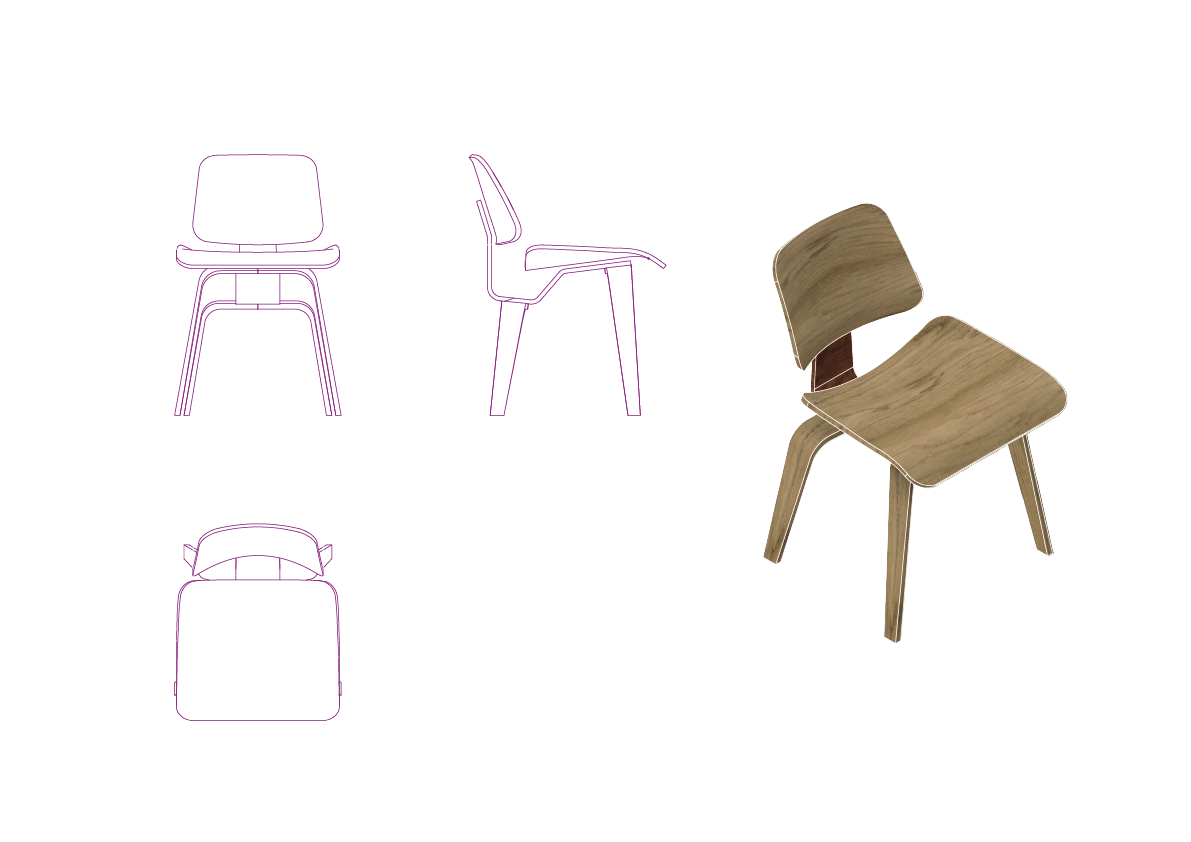
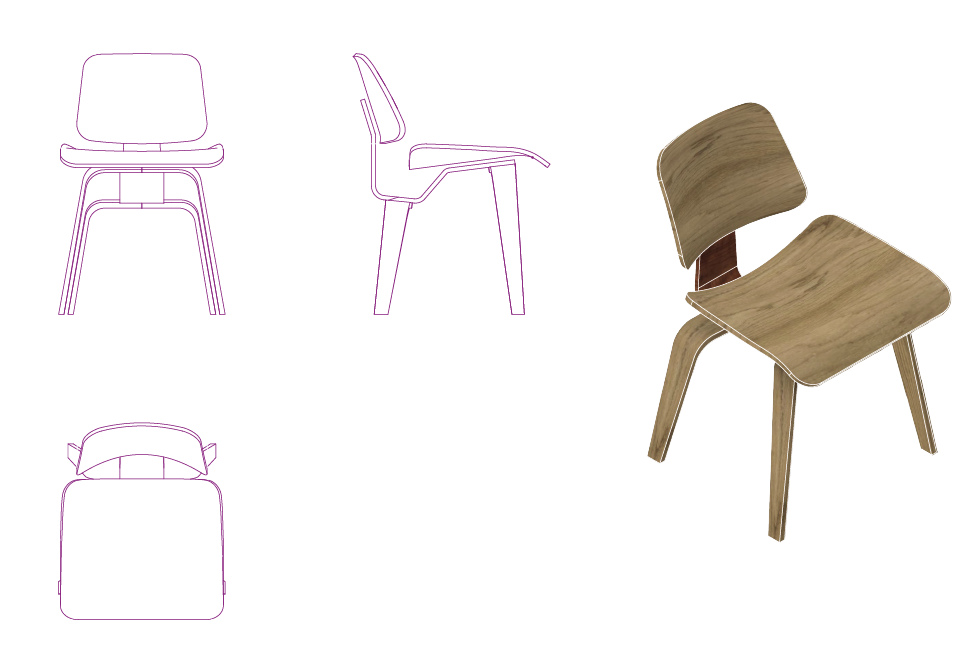
imagenes planimetria pequeñas

diff --git a/fabricaciondigital/docs/encargo-1/index.html b/fabricaciondigital/docs/encargo-1/index.html
@@ -135,11 +135,11 @@
 
 
 <h3 id="imagenes-planimetría-silla">Imagenes planimetría silla:</h3>
-<p><img src="/img/Planimetria/1.png" alt="Planimetria_1"></p>
-<p><img src="/img/Planimetria/2.png" alt="Planimetria_2"></p>
-<p><img src="/img/Planimetria/3.png" alt="Planimetria_3"></p>
-<p><img src="/img/Planimetria/4.png" alt="Planimetria_4"></p>
-<p><img src="/img/Planimetria/5.png" alt="Planimetria_5"></p>
+<p><img src="/fabricaciondigital/img/Planimetria/1.png" alt="Planimetria_1">
+<img src="/fabricaciondigital/img/Planimetria/2.png" alt="Planimetria_2">
+<img src="/fabricaciondigital/img/Planimetria/3.png" alt="Planimetria_3">
+<img src="/fabricaciondigital/img/Planimetria/4.png" alt="Planimetria_4">
+<img src="/fabricaciondigital/img/Planimetria/5.png" alt="Planimetria_5"></p>
 
 </div>
 </div>
